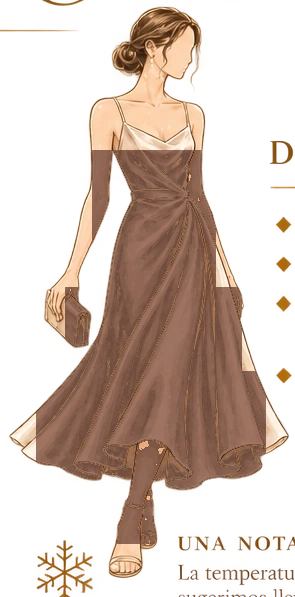
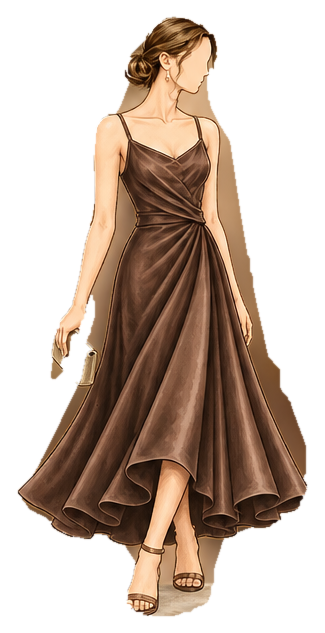
Add files via upload

diff --git a/index.html b/index.html
@@ -4075,6 +4075,71 @@ footer{padding-top:25px;padding-bottom:29px}
 }
 @media(max-width:355px){.dc-look{grid-template-columns:minmax(0,37%) minmax(0,63%)}.dc-figure{height:250px}.dc-copy h3{font-size:20px}.dc-copy li{font-size:16px}}
 
+
+/* Dress Code v3 — clean illustrations and phone-first editorial composition */
+@media(max-width:820px){
+  .dresscode .dresscode-refined{max-width:560px}
+  .dc-looks{grid-template-columns:1fr;gap:0;max-width:440px;margin:0 auto}
+  .dc-look{display:flex;flex-direction:column;align-items:center;gap:0;padding:20px 0 26px;border-bottom:1px solid var(--line)}
+  .dc-look:last-child{border-bottom:0}
+  .dc-art{width:100%;height:auto;min-height:0;justify-content:center}
+  .dc-figure{width:auto;max-width:70%;height:245px;max-height:245px;object-fit:contain}
+  .dc-copy{width:100%;max-width:300px;margin:16px auto 0;text-align:left}
+  .dc-copy h3{text-align:center;font-size:29px;letter-spacing:.07em;margin-bottom:19px}
+  .dc-copy h3:after{margin:11px auto 0}
+  .dc-copy ul{display:grid;gap:10px}
+  .dc-copy li{font-size:20px;line-height:1.2;padding:0 0 0 20px}
+  .dc-copy li:before{top:7px;font-size:8px}
+  .dc-advice{margin-top:18px;gap:20px}
+}
+@media(max-width:430px){
+  .dc-looks{gap:0}
+  .dc-look{display:flex;gap:0;padding:15px 0 27px}
+  .dc-figure{height:235px;max-height:235px;max-width:72%}
+  .dc-copy{max-width:280px;margin-top:12px}
+  .dc-copy h3{font-size:28px;letter-spacing:.07em}
+  .dc-copy li{font-size:19px;padding:0 0 0 19px;line-height:1.25}
+  .dc-swatches{gap:5px}
+  .dc-swatch{font-size:13px}
+  .dc-color{width:clamp(48px,13vw,62px)}
+}
+@media(max-width:355px){
+  .dc-look{display:flex}
+  .dc-figure{height:210px}
+  .dc-copy h3{font-size:26px}
+  .dc-copy li{font-size:18px}
+}
+
+
+/* Dress Code v4: isolated artwork, generous mobile stacking, no overlaps */
+.dc-art{overflow:visible;isolation:isolate}
+.dc-figure{filter:none;object-fit:contain}
+@media(max-width:820px){
+ .dresscode .dresscode-refined{width:min(100%,500px)}
+ .dc-looks{display:flex;flex-direction:column;gap:0;max-width:390px;margin:0 auto}
+ .dc-look{display:flex;flex-direction:column;align-items:center;gap:0;width:100%;padding:22px 0 30px;border-bottom:1px solid var(--line)}
+ .dc-look:last-child{border-bottom:none}
+ .dc-art{display:flex;justify-content:center;align-items:center;width:100%;height:auto;min-height:0}
+ .dc-figure{display:block;width:auto;height:clamp(250px,74vw,350px);max-width:92%;max-height:none;object-fit:contain}
+ .dc-copy{width:min(100%,310px);max-width:none;margin:16px auto 0;padding:0 12px;text-align:left}
+ .dc-copy h3{text-align:center;font-size:30px;letter-spacing:.055em;margin-bottom:18px}
+ .dc-copy h3:after{margin:10px auto 0}
+ .dc-copy ul{display:grid;gap:10px;margin:0;padding:0;list-style:none}
+ .dc-copy li{font-size:21px;line-height:1.2;padding:0 0 0 21px;margin:0}
+ .dc-copy li:before{left:1px;top:7px;font-size:8px}
+ .dc-advice{margin:16px auto 32px;gap:20px;padding:25px 0;max-width:390px}
+ .dc-advice p{font-size:18px;line-height:1.4}
+ .dc-swatches{gap:7px}
+ .dc-swatch{font-size:14px}
+ .dc-color{width:clamp(48px,13vw,64px)}
+}
+@media(max-width:370px){
+ .dc-figure{height:260px}
+ .dc-copy{padding:0 16px}
+ .dc-copy h3{font-size:28px}
+ .dc-copy li{font-size:19px}
+ .dc-swatch{font-size:12px}
+}
 </style>
 <style id="v5-png-storybook-css">
 /* V5 — PNG folio storybook. Main invitation intentionally untouched. */
